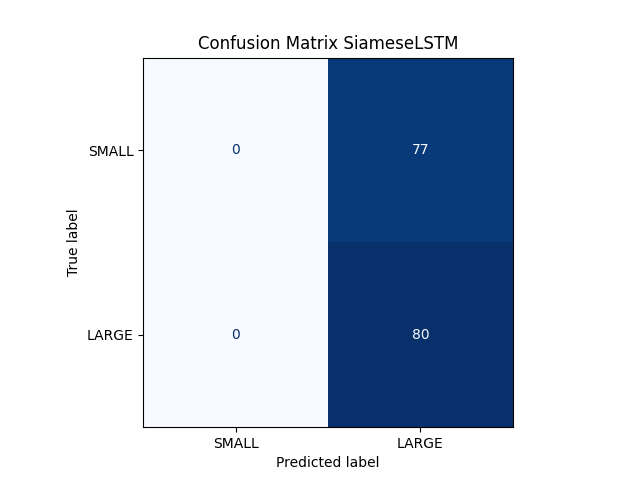
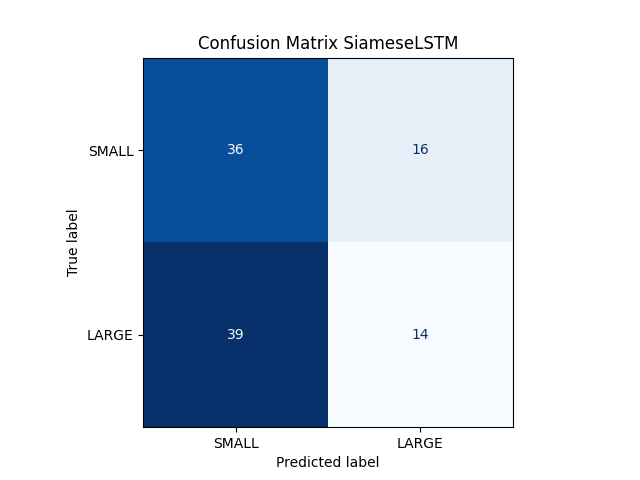
update

diff --git a/SW/size/models.py b/SW/size/models.py
@@ -150,7 +150,7 @@ class SiameseConvNet(nn.Module):
 
 class SiameseLSTM(nn.Module):
 
-    def __init__(self, input_size, output_size, device, hidden_size=50, num_layers=2, pdrop=0.2):
+    def __init__(self, input_size, output_size, device, hidden_size_reg=30, hidden_size_class=50, num_layers=3, pdrop=0.2):
         super().__init__()
         
         self.device = device
@@ -160,28 +160,29 @@ class SiameseLSTM(nn.Module):
         self.output_size = output_size
 
         # LSTM parameters
-        self.hidden_size = hidden_size
+        self.hidden_size_reg = hidden_size_reg
+        self.hidden_size_class = hidden_size_class
         self.num_layers = num_layers
 
         # Regularizers
         self.dropout = pdrop
 
         # Regression
-        self.lstm1 = nn.LSTM(input_size=1, hidden_size=self.hidden_size, 
+        self.lstm1 = nn.LSTM(input_size=1, hidden_size=self.hidden_size_reg, 
                             num_layers=self.num_layers, batch_first=True, dropout=self.dropout)
-        self.lstm2 = nn.LSTM(input_size=1, hidden_size=self.hidden_size, 
+        self.lstm2 = nn.LSTM(input_size=1, hidden_size=self.hidden_size_reg, 
                             num_layers=self.num_layers, batch_first=True, dropout=self.dropout)
         # self.lstm3 = nn.LSTM(input_size=1, hidden_size=self.hidden_size, 
         #                     num_layers=self.num_layers, batch_first=True, dropout=self.dropout)
 
-        self.fc1 = nn.Linear(hidden_size, 1)
-        self.fc2 = nn.Linear(hidden_size, 1)
+        self.fc1 = nn.Linear(hidden_size_reg, 1)
+        self.fc2 = nn.Linear(hidden_size_reg, 1)
         # self.fc3 = nn.Linear(hidden_size, 1)
 
         # Classification
-        self.lstm_class = nn.LSTM(input_size=self.input_size, hidden_size=self.hidden_size, 
+        self.lstm_class = nn.LSTM(input_size=self.input_size, hidden_size=self.hidden_size_class, 
                              num_layers=self.num_layers, batch_first=True, dropout=self.dropout)
-        self.fc = nn.Linear(hidden_size, output_size)
+        self.fc = nn.Linear(hidden_size_class, output_size)
 
         # Final branch
         self.fc_last = nn.Linear(self.output_size * 2, self.output_size * 2)
@@ -192,15 +193,15 @@ class SiameseLSTM(nn.Module):
         self.softmax = nn.Softmax(dim=1)
         
     def forward_reg1(self, x):
-        h0 = torch.randn(self.num_layers, x.size(0), self.hidden_size).to(self.device)
-        c0 = torch.randn(self.num_layers, x.size(0), self.hidden_size).to(self.device)
+        h0 = torch.randn(self.num_layers, x.size(0), self.hidden_size_reg).to(self.device)
+        c0 = torch.randn(self.num_layers, x.size(0), self.hidden_size_reg).to(self.device)
         x, _ = self.lstm1(x, (h0.detach(), c0.detach()))
         x = self.fc1(x[:, -1, :])
         return x
 
     def forward_reg2(self, x):
-        h0 = torch.randn(self.num_layers, x.size(0), self.hidden_size).to(self.device)
-        c0 = torch.randn(self.num_layers, x.size(0), self.hidden_size).to(self.device)
+        h0 = torch.randn(self.num_layers, x.size(0), self.hidden_size_reg).to(self.device)
+        c0 = torch.randn(self.num_layers, x.size(0), self.hidden_size_reg).to(self.device)
         x, _ = self.lstm2(x, (h0.detach(), c0.detach()))
         x = self.fc2(x[:, -1, :])
         return x
@@ -227,8 +228,8 @@ class SiameseLSTM(nn.Module):
         auxiliary = torch.cat((x1, x2), 1)
 
         # Forward Classification
-        h0 = torch.randn(self.num_layers, x.size(0), self.hidden_size).to(self.device)
-        c0 = torch.randn(self.num_layers, x.size(0), self.hidden_size).to(self.device)
+        h0 = torch.randn(self.num_layers, x.size(0), self.hidden_size_class).to(self.device)
+        c0 = torch.randn(self.num_layers, x.size(0), self.hidden_size_class).to(self.device)
         output = x.view(x.size(0), x.size(1), x.size(2))
         output, _ = self.lstm_class(output, (h0.detach(), c0.detach()))
         output = self.softmax(self.fc(output[:, -1, :]))

diff --git a/SW/size/test_accu.py b/SW/size/test_accu.py
@@ -1,7 +1,7 @@
 from torch.utils.data.dataset import random_split
 from data import get_data, get_processed_data
 from train_test import train, output_to_loss, output_to_accu, test, train_siamese
-from helpers import plot_cm
+from helpers import plot_cm, count_parameters
 from models import MLP, ConvNet, LSTM, SiameseLSTM, SiameseConvNet
 from sklearn.model_selection import train_test_split
 import torch
@@ -20,7 +20,7 @@ def test_model():
     # Process data
     X, X_reg, y, y_reg = get_processed_data(features, target_prices, input_period, input_period_weeks, training_window)
 
-    train_indices, test_indices, _, _ = train_test_split(range(len(y)), y, stratify=y, test_size=0.3, random_state=1)
+    train_indices, test_indices, _, _ = train_test_split(range(len(y)), y, stratify=y, test_size=0.2, random_state=1)
     X_train, X_train_reg, y_train, y_train_reg, X_test, X_test_reg, y_test = X[train_indices], X_reg[train_indices], y[train_indices], y_reg[train_indices], X[test_indices], X_reg[test_indices], y[test_indices]
 
     X_mean = X_train.mean(dim=[0, 1], keepdim=True)
@@ -35,7 +35,6 @@ def test_model():
     y_reg_mean = y_train_reg.mean(dim=[0, 1], keepdim=True)
     y_reg_std = y_train_reg.std(dim=[0, 1], keepdim=True)
     y_train_reg = y_train_reg.sub_(y_reg_mean).div_(y_reg_std)
-
 
     class_count = np.unique(y_train.cpu(), axis=0, return_counts=True)[1]
     weights = torch.tensor(class_count / sum(class_count))
@@ -57,9 +56,9 @@ def test_model():
     eta_lstm_siam = 5e-3
     eta_conv_siam = 1e-4
 
-    weight_decay = 1e-5
-    dropout = 0.1
-    nb_epochs = 200
+    weight_decay = 1e-4
+    dropout = 0.2
+    nb_epochs = 100
     batch_size = 10
     verbose = 2
     gamma = 0.5
@@ -87,6 +86,8 @@ def test_model():
         model = SiameseConvNet(dim1, dim2, pdrop=dropout)
 
     model.to(device)
+    print(f'Number of parameters : {count_parameters(model)}')
+
     if siamese:
         train_siamese(model, X_train, X_train_reg, y_train, y_train_reg=y_train_reg, nb_epochs=nb_epochs, device=device, X_test=X_test, y_test=y_test, batch_size=batch_size, eta=eta, 
             weight_decay=weight_decay, verbose=verbose, gamma=gamma)

diff --git a/SW/size/helpers.py b/SW/size/helpers.py
@@ -9,6 +9,10 @@ from train_test import test
 from sklearn.metrics import ConfusionMatrixDisplay
 
 
+def count_parameters(model): 
+    return sum(p.numel() for p in model.parameters() if p.requires_grad)
+
+
 def plot_cm(model, X_test, X_test_reg, y_test, price):
     model.eval()
     output = test(model, X_test, X_test_reg)
